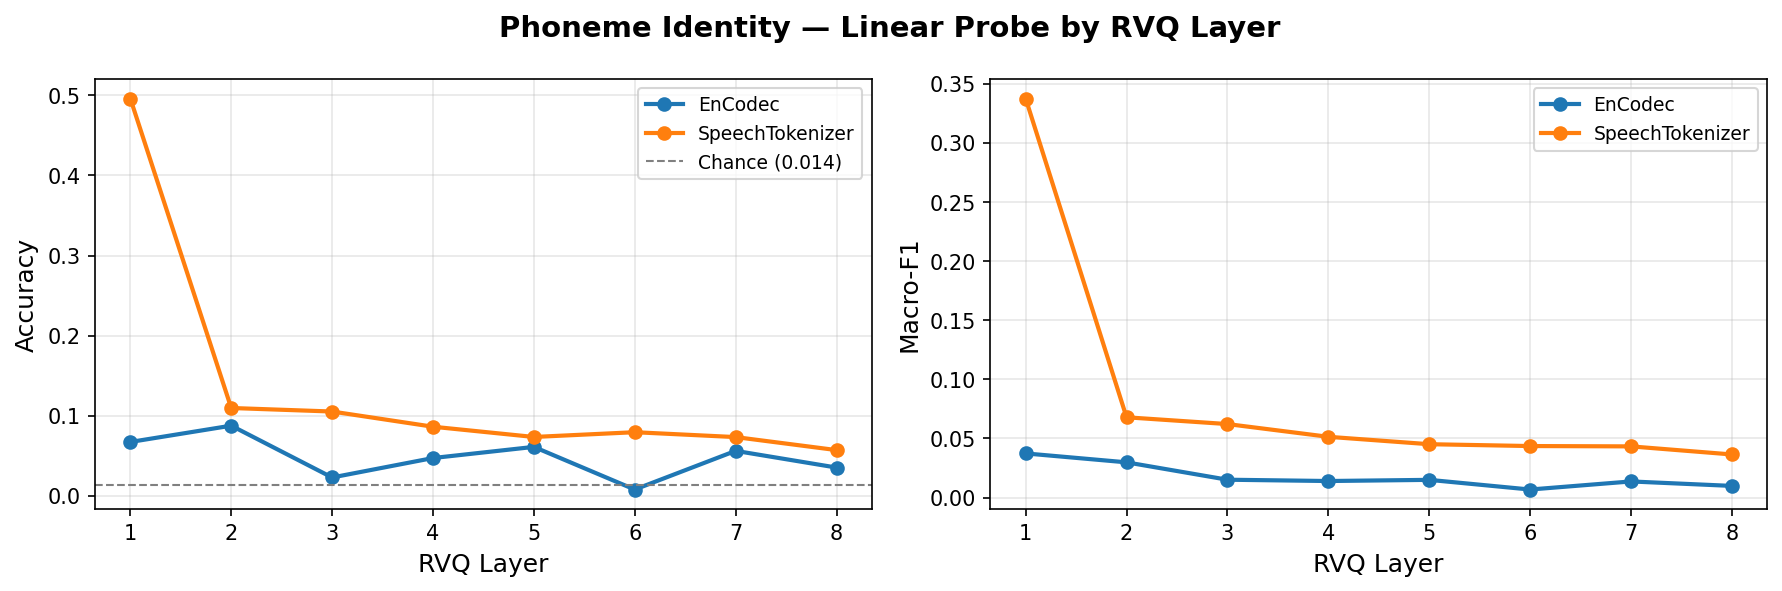
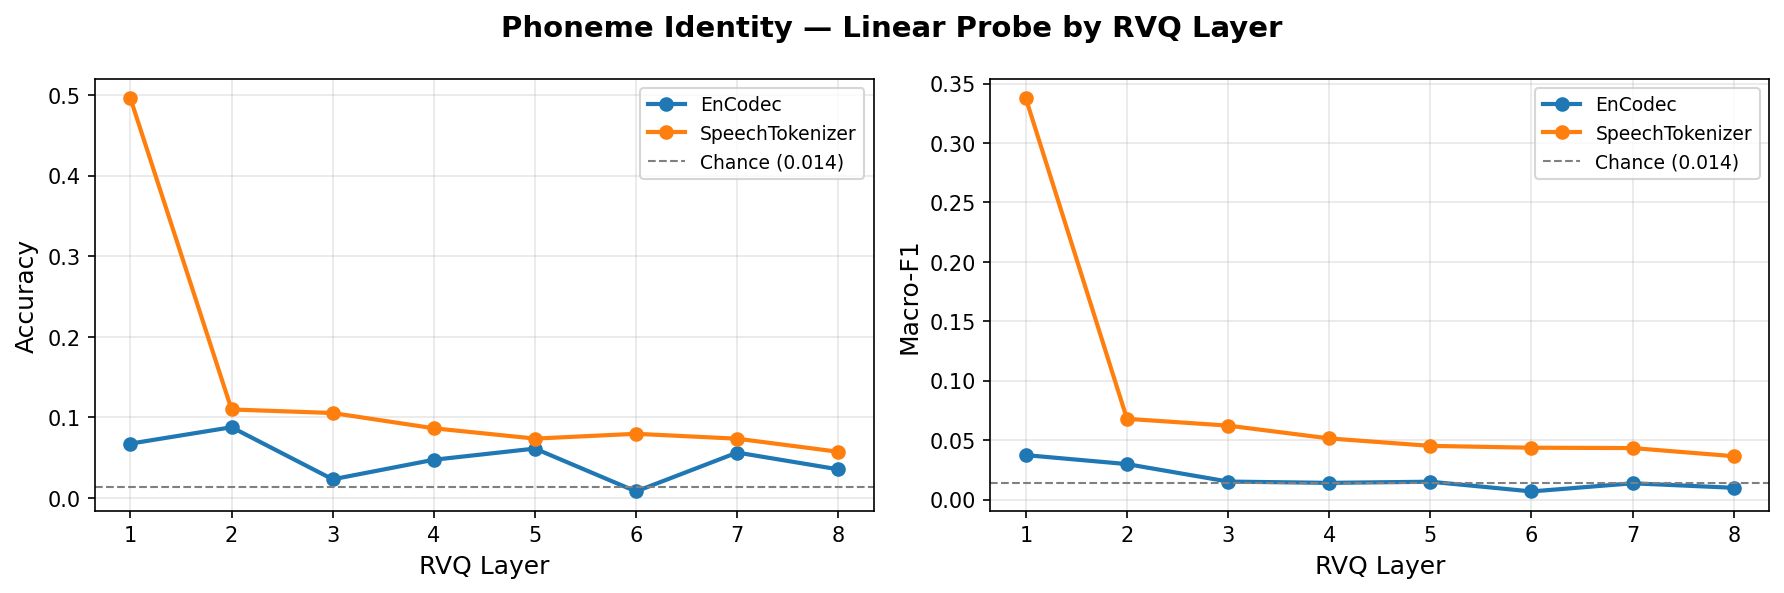
Align Plot Chance Lines And CLI Descriptions

diff --git a/visualize/plot_curves.py b/visualize/plot_curves.py
@@ -8,12 +8,17 @@ Produces 3 figures (one per task), each with two side-by-side subplots:
 
 A dashed horizontal chance-level line is drawn for classification tasks so
 readers can immediately see how much above random each probe performs.
+
+Can be run as a script to visualize results from a saved results.pkl:
+    python -m visualize.plot_curves --results_dir <results_dir>
 """
 
 from pathlib import Path
 from typing import Dict, List, Optional
 
 import matplotlib.pyplot as plt
+import argparse
+import pickle
 
 LAYERS = list(range(1, 9))
 COLORS = {"encodec": "#1f77b4", "speechtokenizer": "#ff7f0e"}
@@ -89,7 +94,7 @@ def plot_phoneme(
         title="Phoneme Identity — Linear Probe by RVQ Layer",
         output_path=str(Path(output_dir) / "phoneme_probing.png"),
         chance_a=chance,
-        chance_b=None,
+        chance_b=chance,
     )
 
 
@@ -106,7 +111,7 @@ def plot_speaker(
         title="Speaker Identity — Linear Probe by RVQ Layer",
         output_path=str(Path(output_dir) / "speaker_probing.png"),
         chance_a=chance,
-        chance_b=None,
+        chance_b=chance,
     )
 
 
@@ -140,3 +145,29 @@ def plot_all(
     plot_phoneme(results, output_dir, n_phonemes=n_phonemes)
     plot_speaker(results, output_dir, n_speakers=n_speakers)
     plot_pitch(results, output_dir)
+
+def main():
+    p = argparse.ArgumentParser(description="Visualize probing results from results.pkl")
+    p.add_argument("--results_dir", required=True,
+                   help="Path to results directory containing results.pkl")
+    p.add_argument("--n_phonemes", type=int, default=71,
+                   help="Number of phoneme classes (for chance line)")
+    p.add_argument("--n_speakers", type=int, default=251,
+                   help="Number of speaker classes (for chance line)")
+    args = p.parse_args()
+
+    results_path = Path(args.results_dir) / "results.pkl"
+    if not results_path.exists():
+        raise FileNotFoundError(f"No results.pkl found at {results_path}")
+
+    with open(results_path, "rb") as f:
+        results = pickle.load(f)
+
+    fig_dir = Path(args.results_dir) / "figures"
+    print(f"Visualizing results in {fig_dir}...")
+    plot_all(results, str(fig_dir), n_phonemes=args.n_phonemes, n_speakers=args.n_speakers)
+    print("Done!")
+
+
+if __name__ == "__main__":
+    main()

diff --git a/visualize/plot_tsne.py b/visualize/plot_tsne.py
@@ -1,14 +1,14 @@
 """
 t-SNE visualizations of codec RVQ layer embeddings, colored by phoneme
-group, speaker identity, and pitch — inspired by Sadok et al. 2025.
+group, speaker identity, and pitch (inspired by Sadok et al. 2025).
 
-Layout for each figure: 2 rows (EnCodec / SpeechTokenizer) × 4 columns
+Layout for each figure: 2 rows (EnCodec / SpeechTokenizer) x 4 columns
 (RVQ layers 1, 2, 4, 8).
 
-Run on the server:
-    python visualize/plot_tsne.py \\
-        --cache_dir  results_capfull_20260503_071048/cache \\
-        --output_dir results_capfull_20260503_071048/figures
+Can be run as a script to visualize cached embeddings:
+    python -m visualize.plot_tsne \
+        --cache_dir path/to/cache \
+        --output_dir path/to/output/figures
 """
 
 import argparse
@@ -346,7 +346,9 @@ def plot_pitch(tsne_per_codec, pitches_per_codec, out_dir: Path):
 # ── Main ──────────────────────────────────────────────────────────────────────
 
 def main():
-    ap = argparse.ArgumentParser()
+    ap = argparse.ArgumentParser(
+        description="Visualize t-SNE projections from cached codec embeddings"
+    )
     ap.add_argument("--cache_dir",  required=True)
     ap.add_argument("--output_dir", required=True)
     ap.add_argument("--seed", type=int, default=42)
